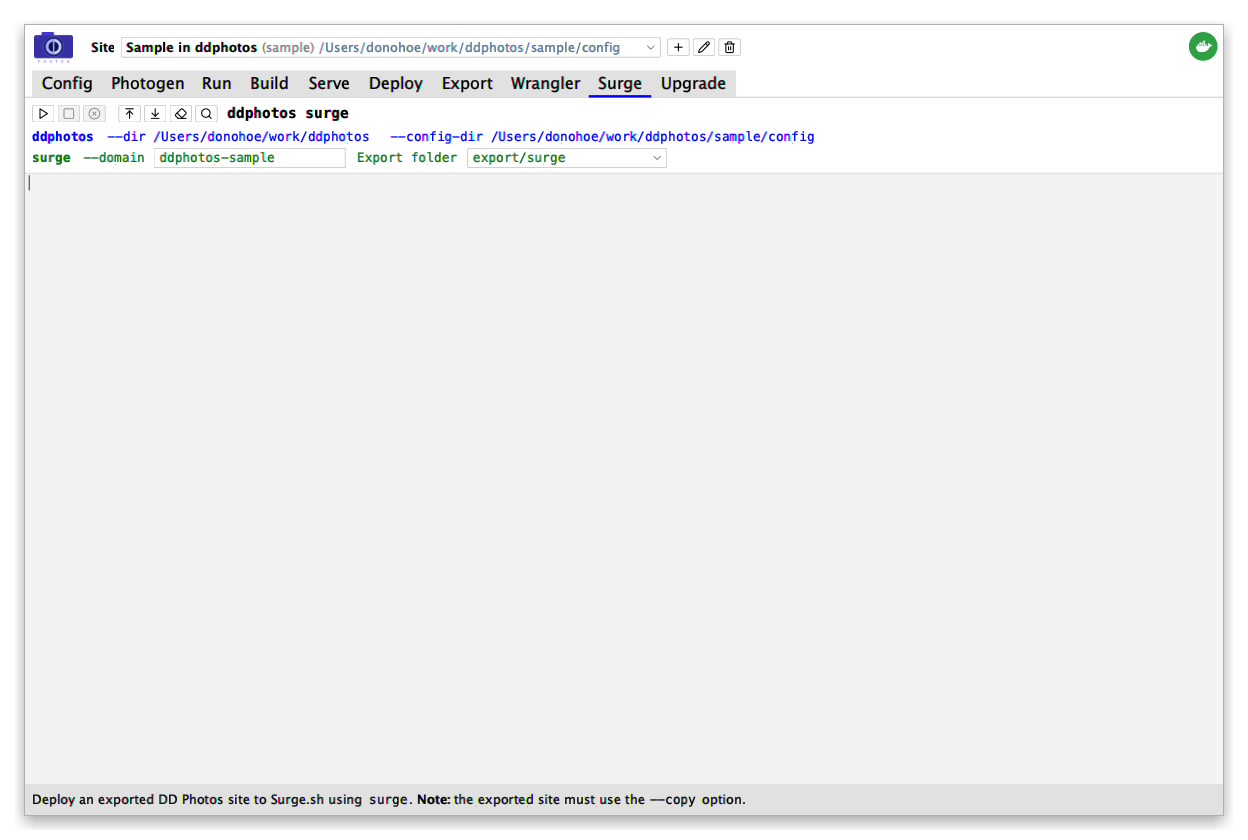
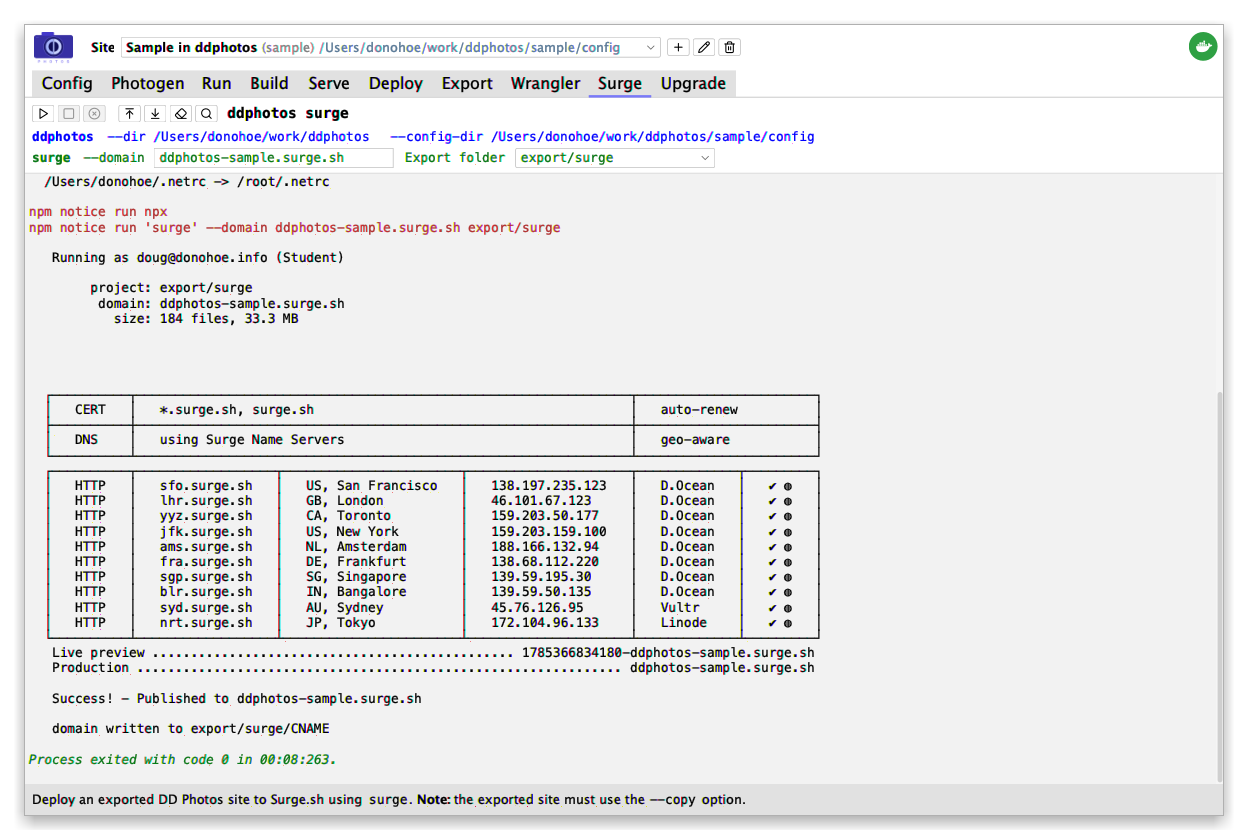
Update surge screenshot and whoami cmd

diff --git a/code/photos/src/main/java/com/donohoedigital/ddphotos/runner/SurgeRunner.java b/code/photos/src/main/java/com/donohoedigital/ddphotos/runner/SurgeRunner.java
@@ -64,7 +64,7 @@ public class SurgeRunner extends DdphotosRunner {
 
     @Override
     public Prerequisite getPrerequisite(Site site, Map<String, String> userValues) {
-        List<String> checkCmd = buildWrappedCommand(site, Map.of(), "surge", "whoami");
+        List<String> checkCmd = buildWrappedCommand(site, Map.of(), "surge", "account", "whoami");
         String notAuthMsg = PropertyConfig.getMessage("msg.surge.notAuthenticated",
                 PhotosUtils.scriptPath());
         return new Prerequisite(checkCmd) {
